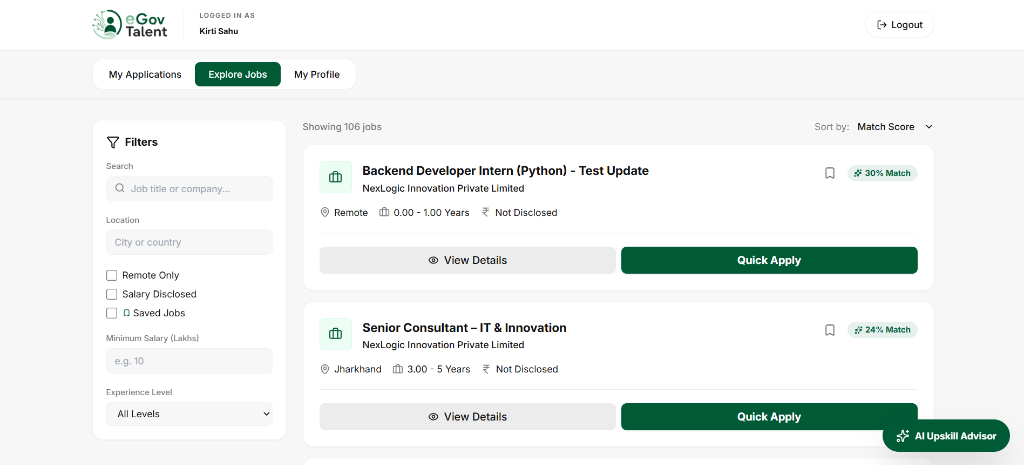
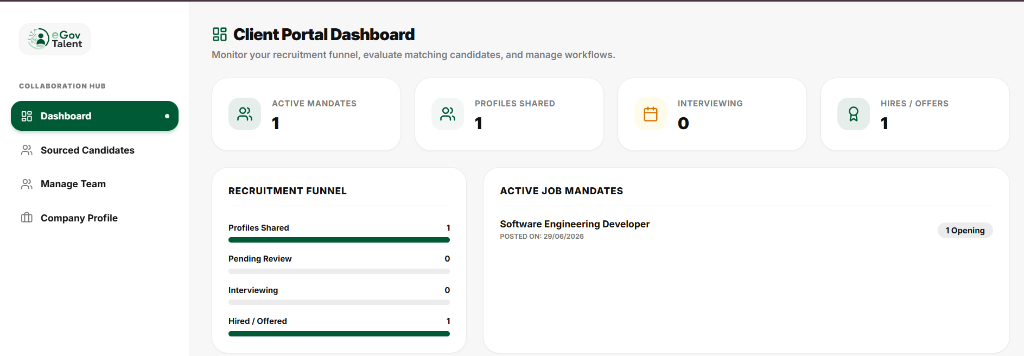
feat: align slides array text descriptions with correct mockup images on disk

diff --git a/src/pages/EGovTalentPage.jsx b/src/pages/EGovTalentPage.jsx
@@ -79,16 +79,16 @@ const EGovTalentPage = () => {
       url: "/egov_hr_command_center_v3.png"
     },
     {
-      title: "Candidate Explore Jobs",
-      desc: "Semantic-match filter view for candidates to search and apply to positions.",
-      benefits: ["Semantic skill matches", "Custom filter grids", "One-click application logs"],
-      url: "/egov_explore_jobs_v3.png"
-    },
-    {
       title: "Client Collaboration Hub",
       desc: "Monitor recruitment funnels, review shared candidate profiles, and manage corporate client feedback.",
       benefits: ["Direct profile sharing", "Interactive funnel stages", "Structured corporate review"],
       url: "/egov_client_portal_v3.png"
+    },
+    {
+      title: "Candidate Explore Jobs",
+      desc: "Semantic-match filter view for candidates to search and apply to positions.",
+      benefits: ["Semantic skill matches", "Custom filter grids", "One-click application logs"],
+      url: "/egov_explore_jobs_v3.png"
     }
   ];
 